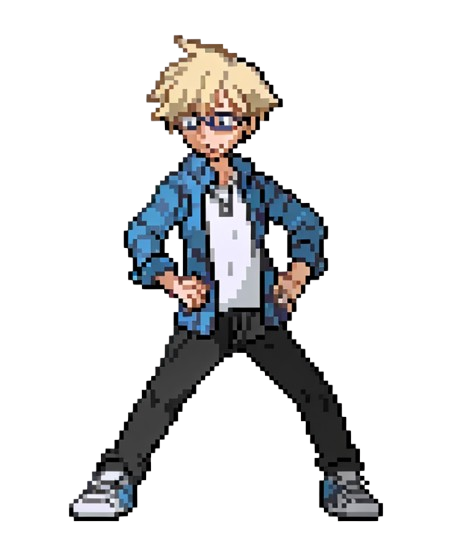
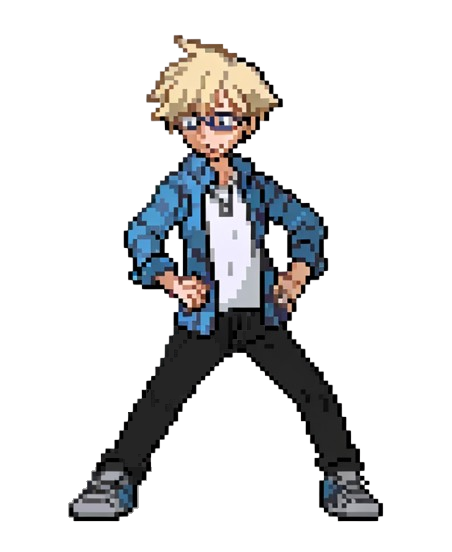
adjusted character images/locations

Changed region(s): [[0.1549, 0.5851, 0.4956, 0.9547], [0.5265, 0.5543, 0.5885, 0.6159]]

diff --git a/Pokemon-Portfolio/src/components/BattleScene/BattleScene.module.css b/Pokemon-Portfolio/src/components/BattleScene/BattleScene.module.css
@@ -29,18 +29,12 @@
 
 .playerSprite {
   position: absolute;
-  bottom: -10px;
-  left: 220px;
-  width: 80px;
-  height: 80px;
-  background: rgba(80, 120, 200, 0.6);
-  border: 3px solid #4060a0;
-  display: flex;
-  align-items: center;
-  justify-content: center;
-  font-family: var(--font-pixel);
-  font-size: 7px;
-  color: #fff;
+  bottom: -6px;
+  left: 185px;
+  width: 160px;
+  height: 160px;
+  image-rendering: pixelated;
+  object-fit: contain;
 }
 
 /* UI bar at the bottom */

diff --git a/Pokemon-Portfolio/src/components/BattleScene/BattleScene.tsx b/Pokemon-Portfolio/src/components/BattleScene/BattleScene.tsx
@@ -49,7 +49,7 @@ export default function BattleScene({ state, dispatch }: Props) {
           level={99}
         />
         <img src="/pokemon-assets/zack-base-stance.png" className={styles.enemySprite} alt="" draggable={false} />
-        <div className={styles.playerSprite}>YOU</div>
+        <img src="/pokemon-assets/may-base-stance.png" className={styles.playerSprite} alt="" draggable={false} />
       </div>
 
       {/* UI bar */}

diff --git a/Pokemon-Portfolio/src/App.tsx b/Pokemon-Portfolio/src/App.tsx
@@ -13,6 +13,7 @@ const PRELOAD_ASSETS = [
   '/pokemon-assets/tm_case.png',
   '/pokemon-assets/HM_icon.png',
   '/pokemon-assets/zack-base-stance.png',
+  '/pokemon-assets/may-base-stance.png',
 ]
 
 function App() {
